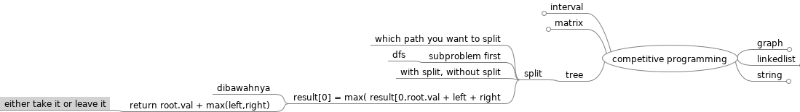
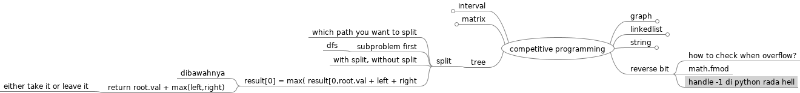
update lecture notes

diff --git a/competitive programming.mm b/competitive programming.mm
@@ -157,5 +157,10 @@
 </node>
 </node>
 </node>
+<node CREATED="1646825743684" ID="ID_1980900154" MODIFIED="1646825748319" POSITION="right" TEXT="reverse bit">
+<node CREATED="1646825748598" ID="ID_809195420" MODIFIED="1646825759888" TEXT="how to check when overflow?"/>
+<node CREATED="1646839958871" ID="ID_826246121" MODIFIED="1646839962451" TEXT="math.fmod"/>
+<node CREATED="1646840872466" ID="ID_723155245" MODIFIED="1646840879725" TEXT="handle -1 di python rada hell"/>
+</node>
 </node>
 </map>
